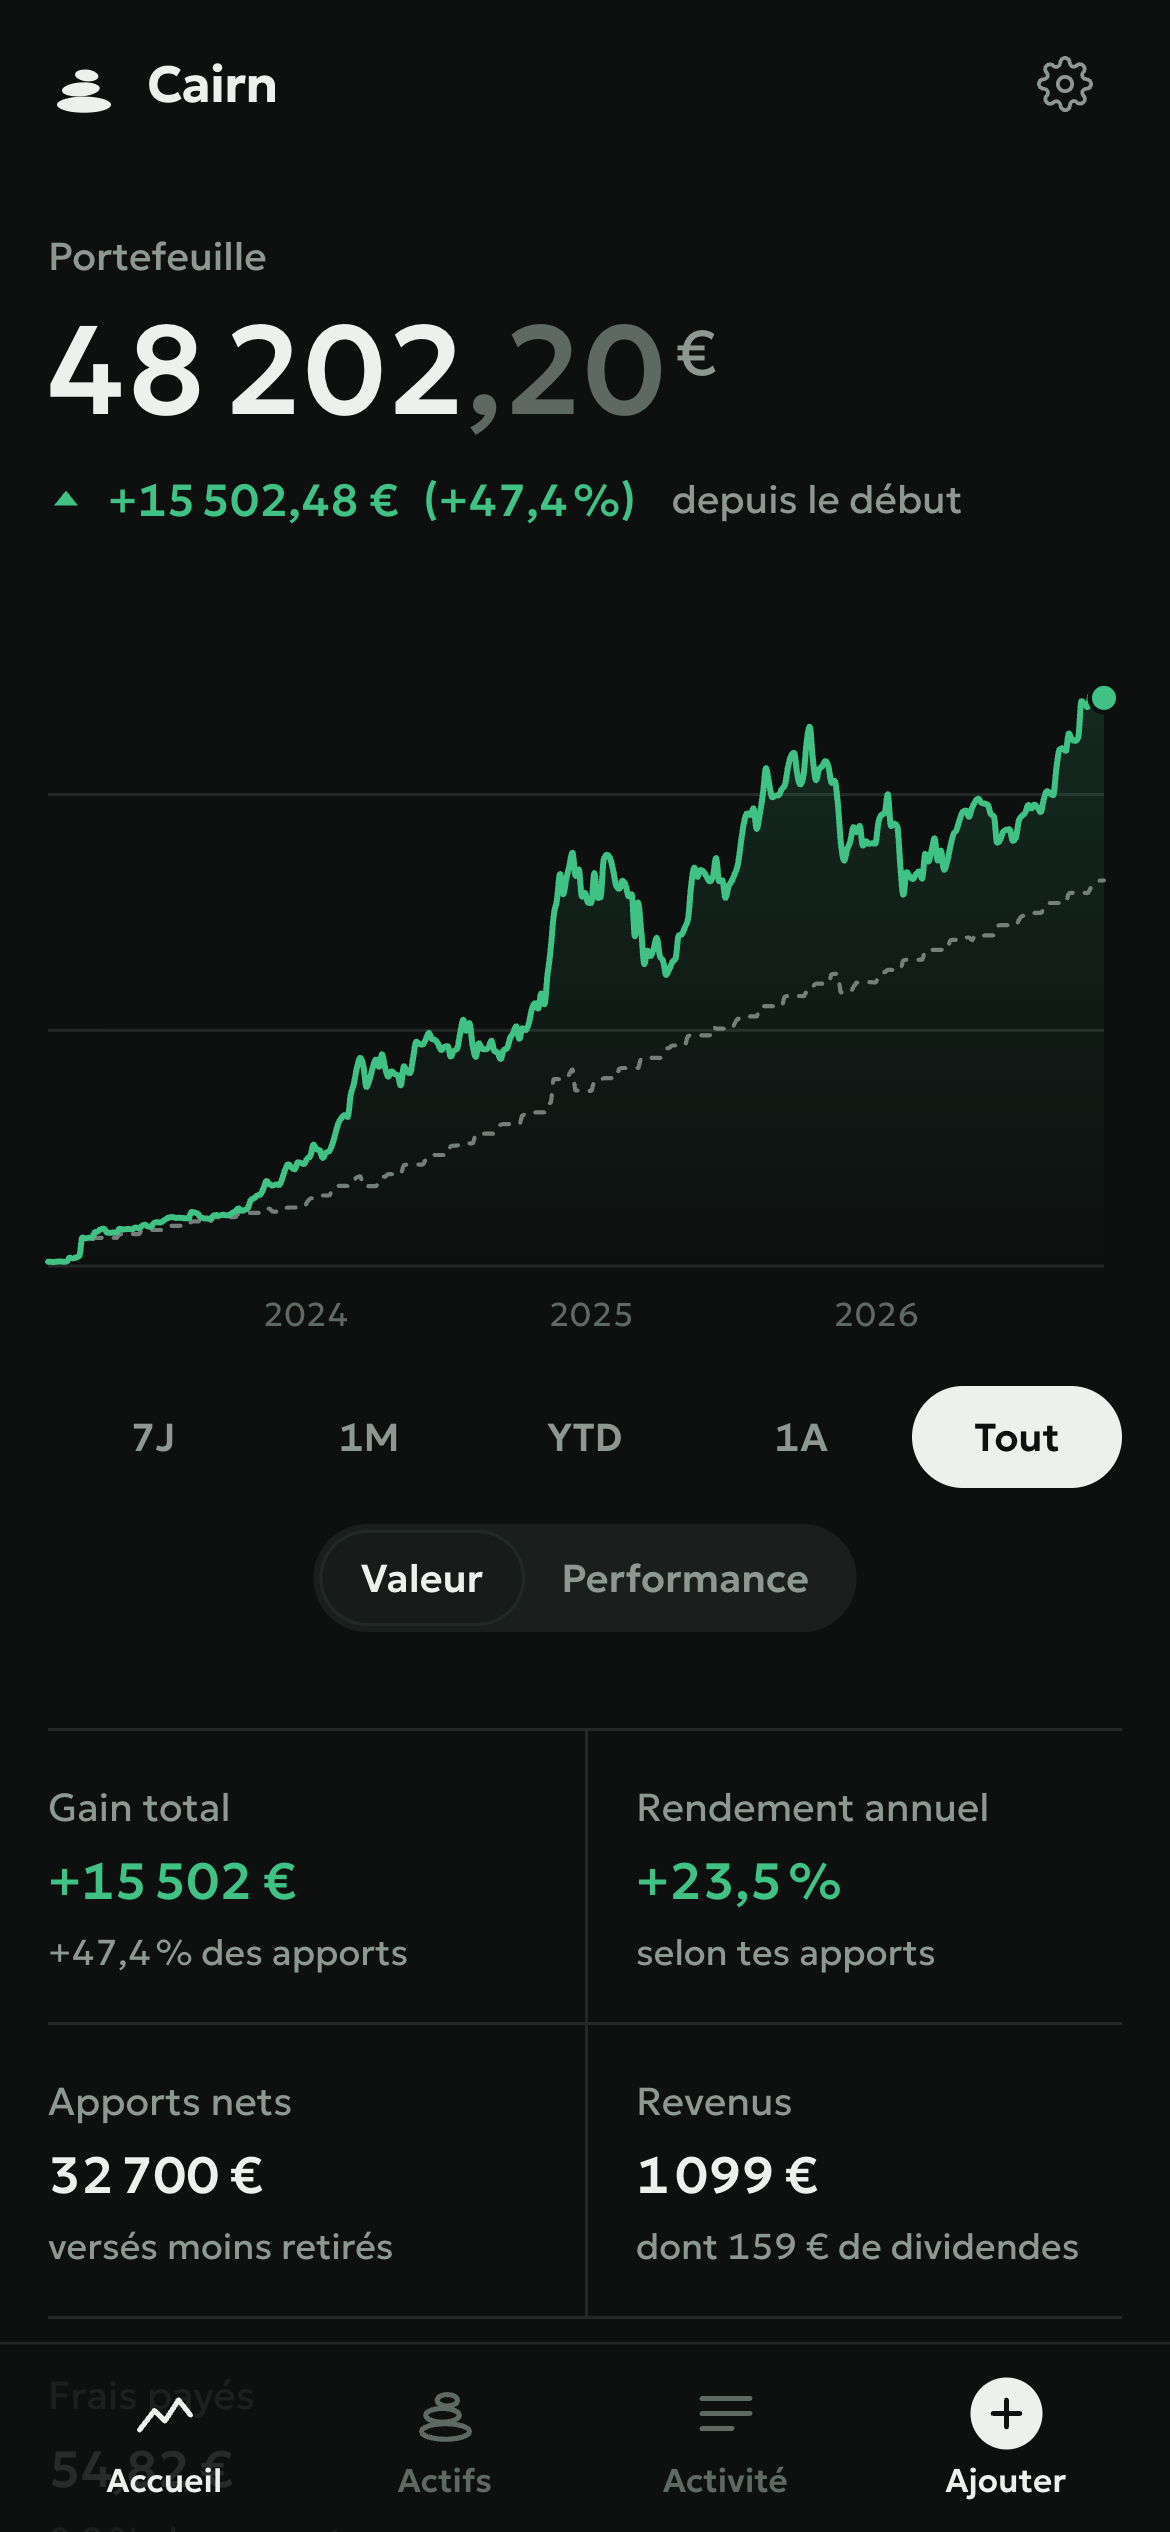
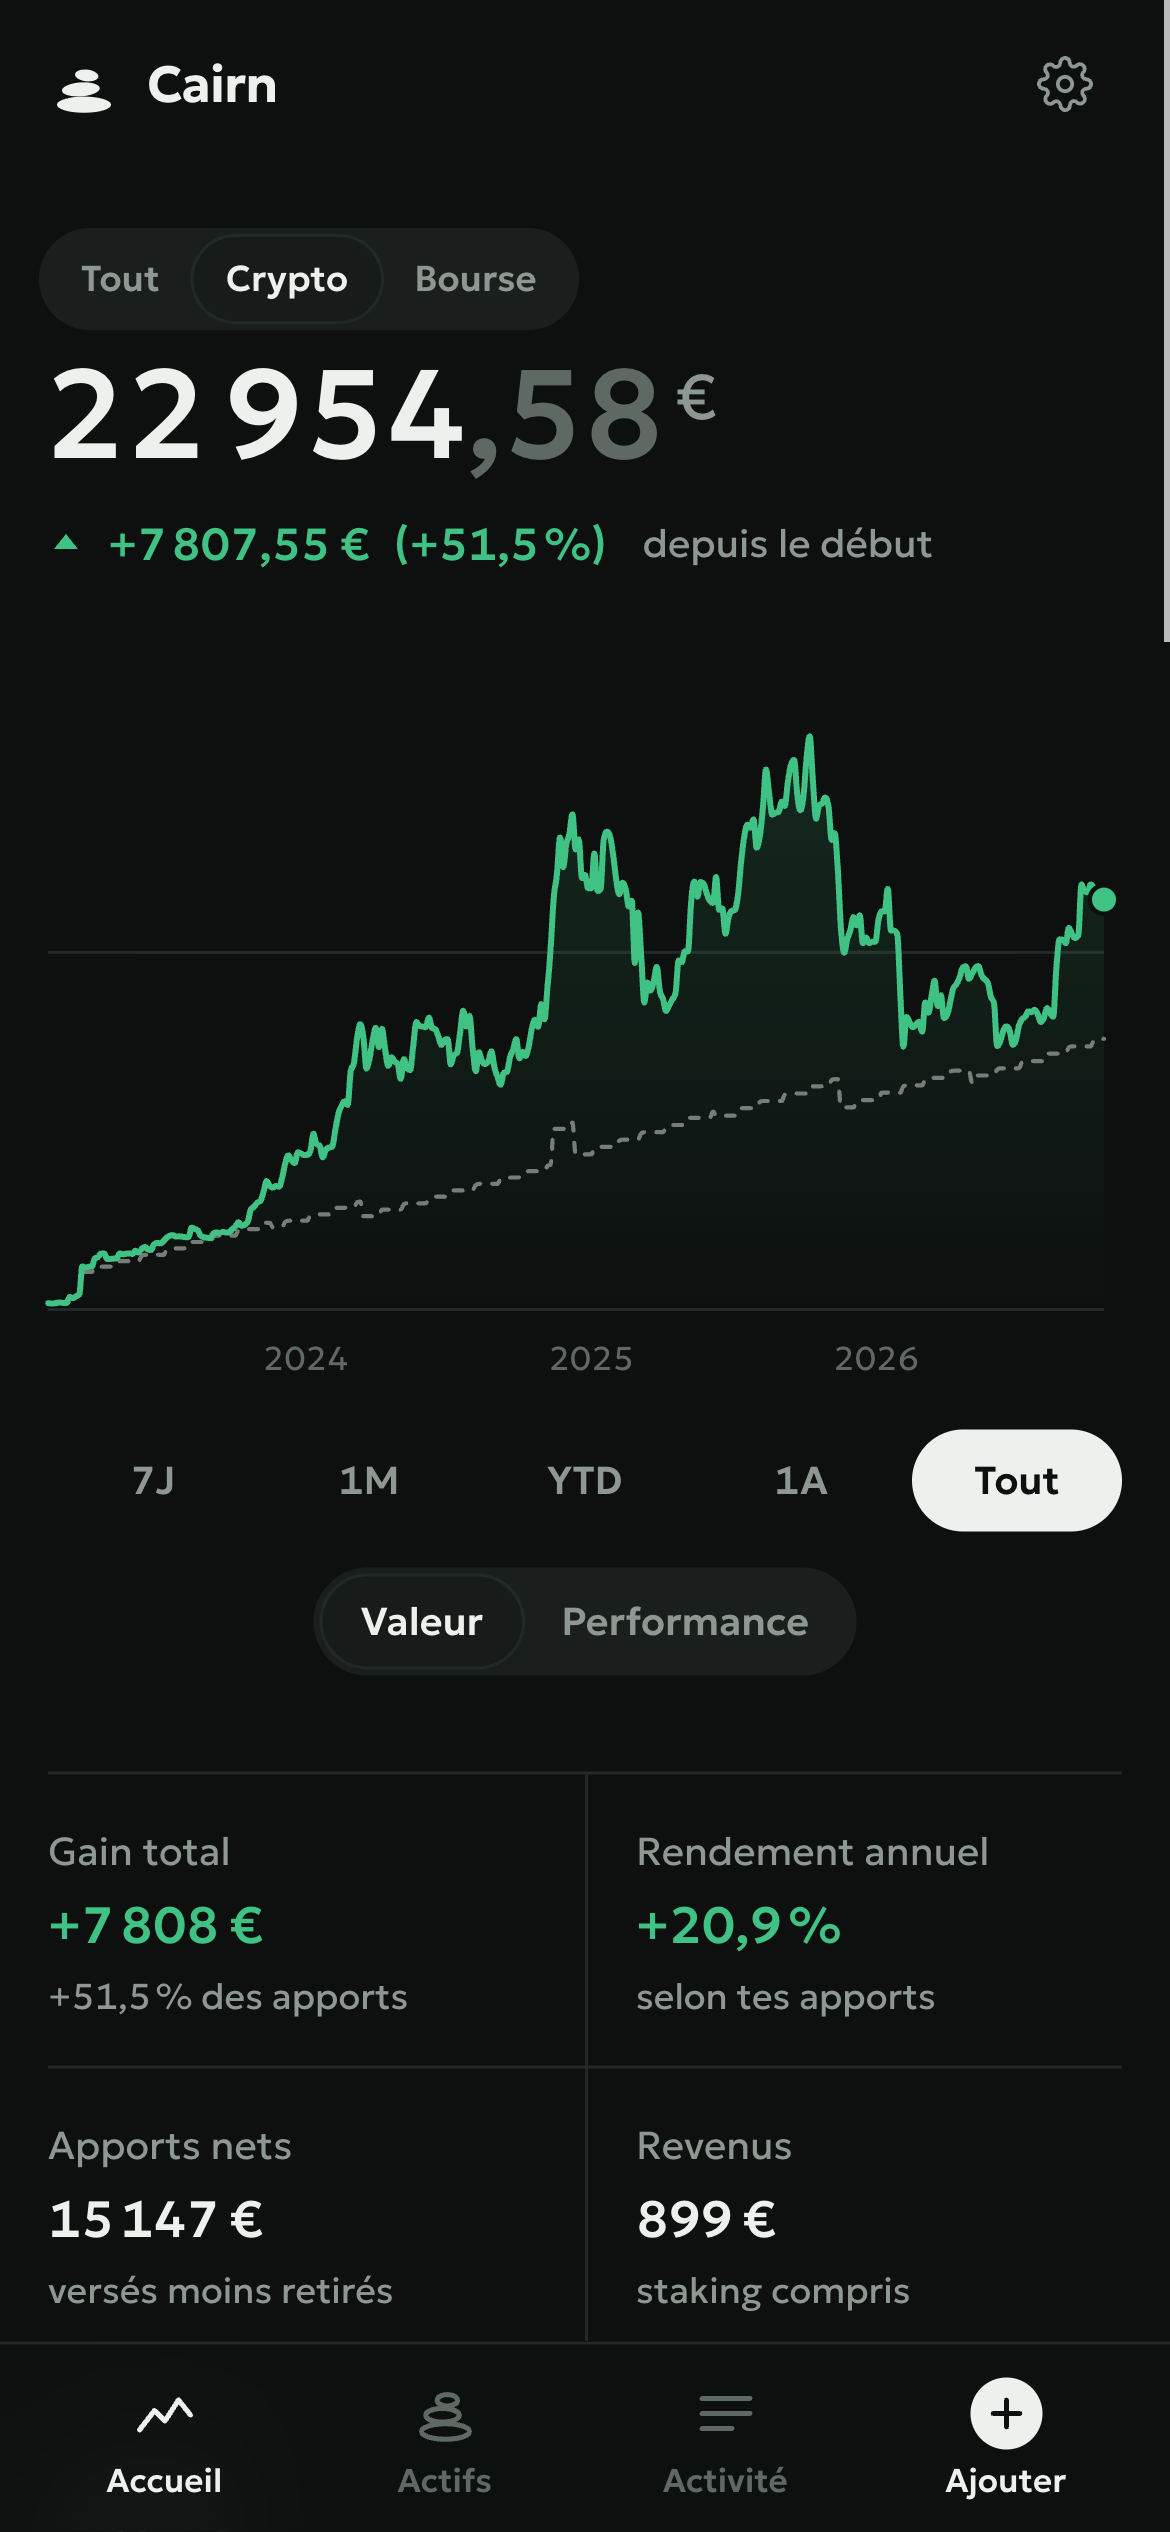
README et captures refaites : Tout, Crypto ou Bourse, Actifs cherchables, Activité au jour court

diff --git a/README.md b/README.md
@@ -4,10 +4,11 @@ Where my investments stand, crypto, stocks and ETFs: what they are worth, what I
 
 ![Accueil](docs/screenshots/accueil-clair.png)
 
+- **Tout, Crypto, Bourse**: one switch above the value (shown when there are both) narrows every figure, chart, list and the activity to crypto alone or to stocks and ETFs alone, and stays on from page to page. Each side is counted as a portfolio of its own: money taken out of crypto by a sale and put into an ETF by a buy is a withdrawal from Crypto and a contribution to Bourse (Tout sees euros leave and come back). Cash-only operations (interest, account fees) go with the class their account trades most; the two sides add up to Tout.
 - **Accueil**: the value and its change over 7J, 1M, YTD, 1A or Tout, in euros and as a share of what was at stake (the opening value plus money put in since); a chart to scrub with a finger (value against money put in, or performance time-weighted so deposits are not gains); gain, yearly return (money-weighted), net contributions, income (staking, dividends, interest), fees; each asset with its month; allocation by asset, by class (crypto, ETF, stocks, stablecoins) or by account.
 - **Statistiques** (on Accueil): monthly returns year by year, money put in each month, cumulative income, what came from contributions, income and the market, gain by asset.
-- **Actifs**: every coin, stock and ETF, held or sold, by name (a security's ISIN is a detail on its page). One page each: its price with my average cost and my buys and sales, the quantity held, unrealized and realized gain, rewards or dividends, fees, its operations.
-- **Activité**: every operation by month, by account or asset, searchable by name. Add, change or remove those entered by hand or imported.
+- **Actifs**: every coin, stock and ETF, held or sold, by name (a security's ISIN is a detail on its page); a long list can be searched and sorted by value, gain or name. One page each: its price with my average cost and my buys and sales, the quantity held, unrealized and realized gain, rewards or dividends, fees, its operations.
+- **Activité**: every operation by month, by account or asset, searchable by name, loading as you scroll. Add (**N** on a keyboard; from an asset's page, for that asset), change or remove those entered by hand or imported.
 - **Impôts** (a card on Accueil when a declaration has something, and in the footer): one year of crypto disposals as 2086 lines, totals, estimated tax, a CSV to copy into the form. Stocks and ETFs are left out.
 
 **How the figures count.** Cash is not part of the value: euros sitting on an account (Trade Republic's, an exchange's) are outside the portfolio, so a bank transfer in, a card payment or a cash withdrawal changes nothing; money counts as put in when it buys something and as taken out when a sale brings it back. Dividends, net of the tax withheld, come back out the same way, so they are part of the gain, the yearly return and the time-weighted performance. Interest on cash is income too, shown with the rest, but outside the gain (the cash that earns it is not in the value). A broker's accounts from Fundarr stay apart (Trade Republic CTO and PEA).
@@ -77,7 +78,7 @@ date,type,actif,quantite,prix,frais,recu,quantite_recue,compte,note,isin,nom
 | `FUNDARR_TOKEN` | | Fundarr read token (`fdr_…`), with `FUNDARR_URL` |
 | `FUNDARR_NOTIFY_SECRET` | | the notify secret, instead of pasting it in Réglages |
 
-`/healthz` answers `ok`. Writes under `/api` must be JSON sent by Cairn's own page (cross-origin protection); errors come back as `{"error": "…"}`. An earlier Cairn's link (`/data/cairn.json`) is moved into the database on first start.
+The computed reads (`/api/overview`, `/api/stats`, `/api/portfolio`, `/api/portfolio/history`) and `/api/operations` take `?scope=all|crypto|securities`. `/healthz` answers `ok`. Writes under `/api` must be JSON sent by Cairn's own page (cross-origin protection); errors come back as `{"error": "…"}`. An earlier Cairn's link (`/data/cairn.json`) is moved into the database on first start.
 
 ## Develop
 
@@ -94,8 +95,8 @@ cd web && npm install && npm run dev                               # http://loca
 | | |
 |---|---|
 | ![Statistiques](docs/screenshots/statistiques-clair.png) | ![Un actif](docs/screenshots/actif-clair.png) |
-| ![Accueil, sombre](docs/screenshots/accueil-sombre.png) | ![Activité](docs/screenshots/activite-clair.png) |
-| ![Accueil, mobile](docs/screenshots/accueil-mobile-sombre.png) | ![Un actif, mobile](docs/screenshots/actif-mobile-sombre.png) |
+| ![Accueil, Bourse, sombre](docs/screenshots/accueil-sombre.png) | ![Activité](docs/screenshots/activite-clair.png) |
+| ![Accueil, Crypto, mobile](docs/screenshots/accueil-mobile-sombre.png) | ![Un actif, mobile](docs/screenshots/actif-mobile-sombre.png) |
 | ![Ajouter](docs/screenshots/ajouter-clair.png) | ![Impôts](docs/screenshots/impots-clair.png) |
 | ![Premier lancement](docs/screenshots/bienvenue-clair.png) | ![Activité, mobile](docs/screenshots/activite-mobile-sombre.png) |
 
